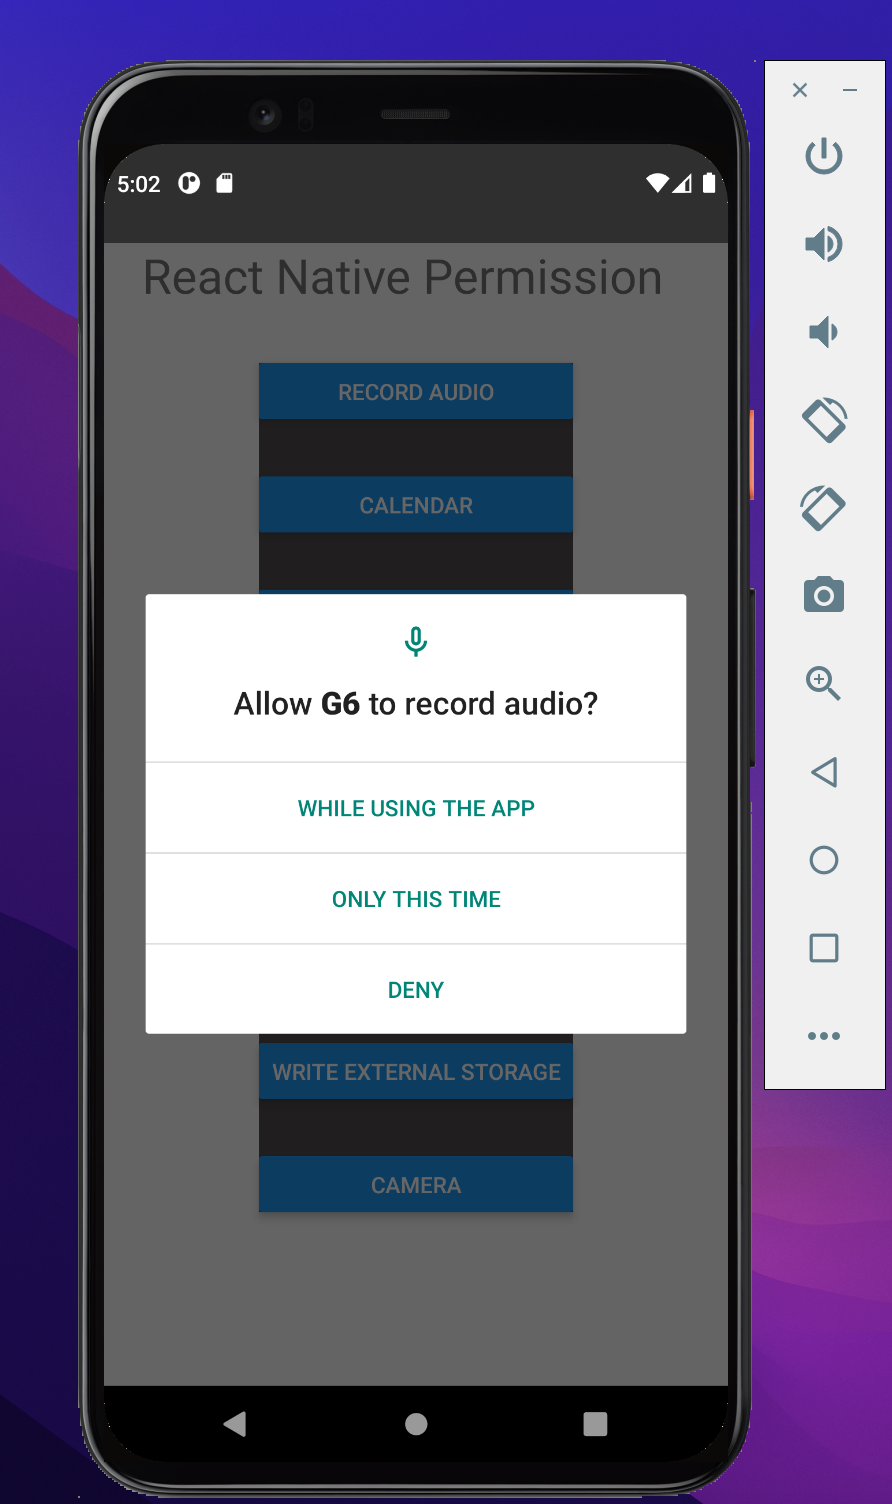
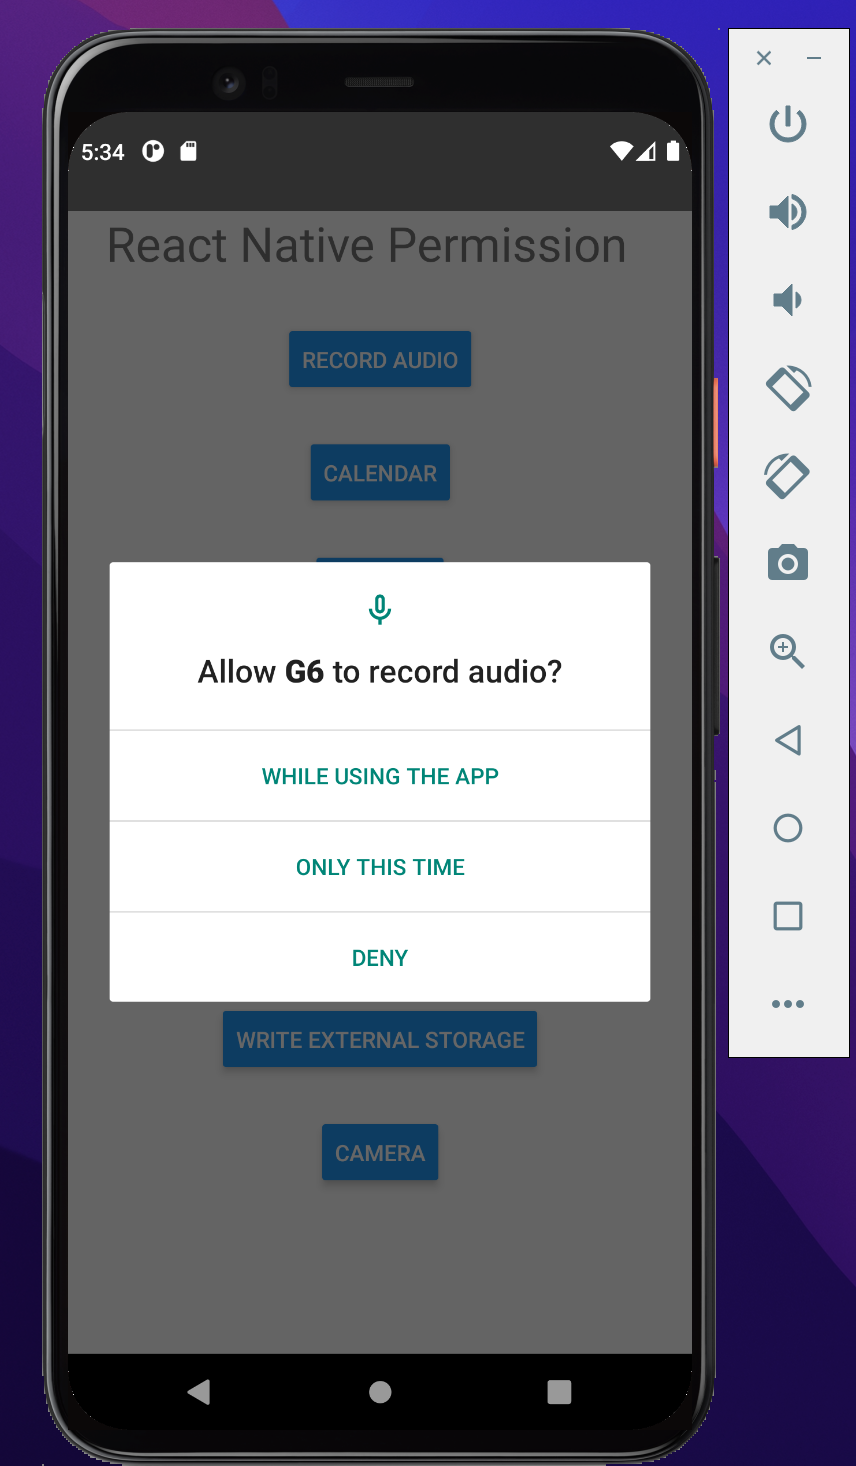
Changes updated

diff --git a/App.js b/App.js
@@ -1,5 +1,5 @@
 import React, {Component} from 'react';
-import {View,Text,Button} from 'react-native';
+import {View,Text,StyleSheet,Button} from 'react-native';
 import { Permission, PERMISSION_TYPE } from './src/AppPermission';
 
 export default class App extends Component {
@@ -17,12 +17,10 @@ export default class App extends Component {
 
 render( ) {
   return (
-   
-    <View style={{ justifyContent:'center', alignItems:'center'}}>
+   <View style={{ justifyContent:'center', alignItems:'center'}}>
       <Text style={{fontSize:30}}>
       React Native Permission {'\n'}
       </Text>
-      <View style={{backgroundColor:'#524A4E'}}>
       <Button title="Record Audio" onPress={this.checkPermission}/><Text>{'\n'}</Text>
       <Button title="Calendar" onPress={this.checkPermission}/><Text>{'\n'}</Text>
       <Button title="Contact" onPress={this.checkPermission}/><Text>{'\n'}</Text>
@@ -32,11 +30,10 @@ render( ) {
       <Button title="Write External Storage" onPress={this.checkPermission}/><Text>{'\n'}</Text>
       <Button title="Camera" onPress={this.checkPermission}/>
       </View >
-      </View>
       
     )
   }
 }
- 
-     
+  
+
 
